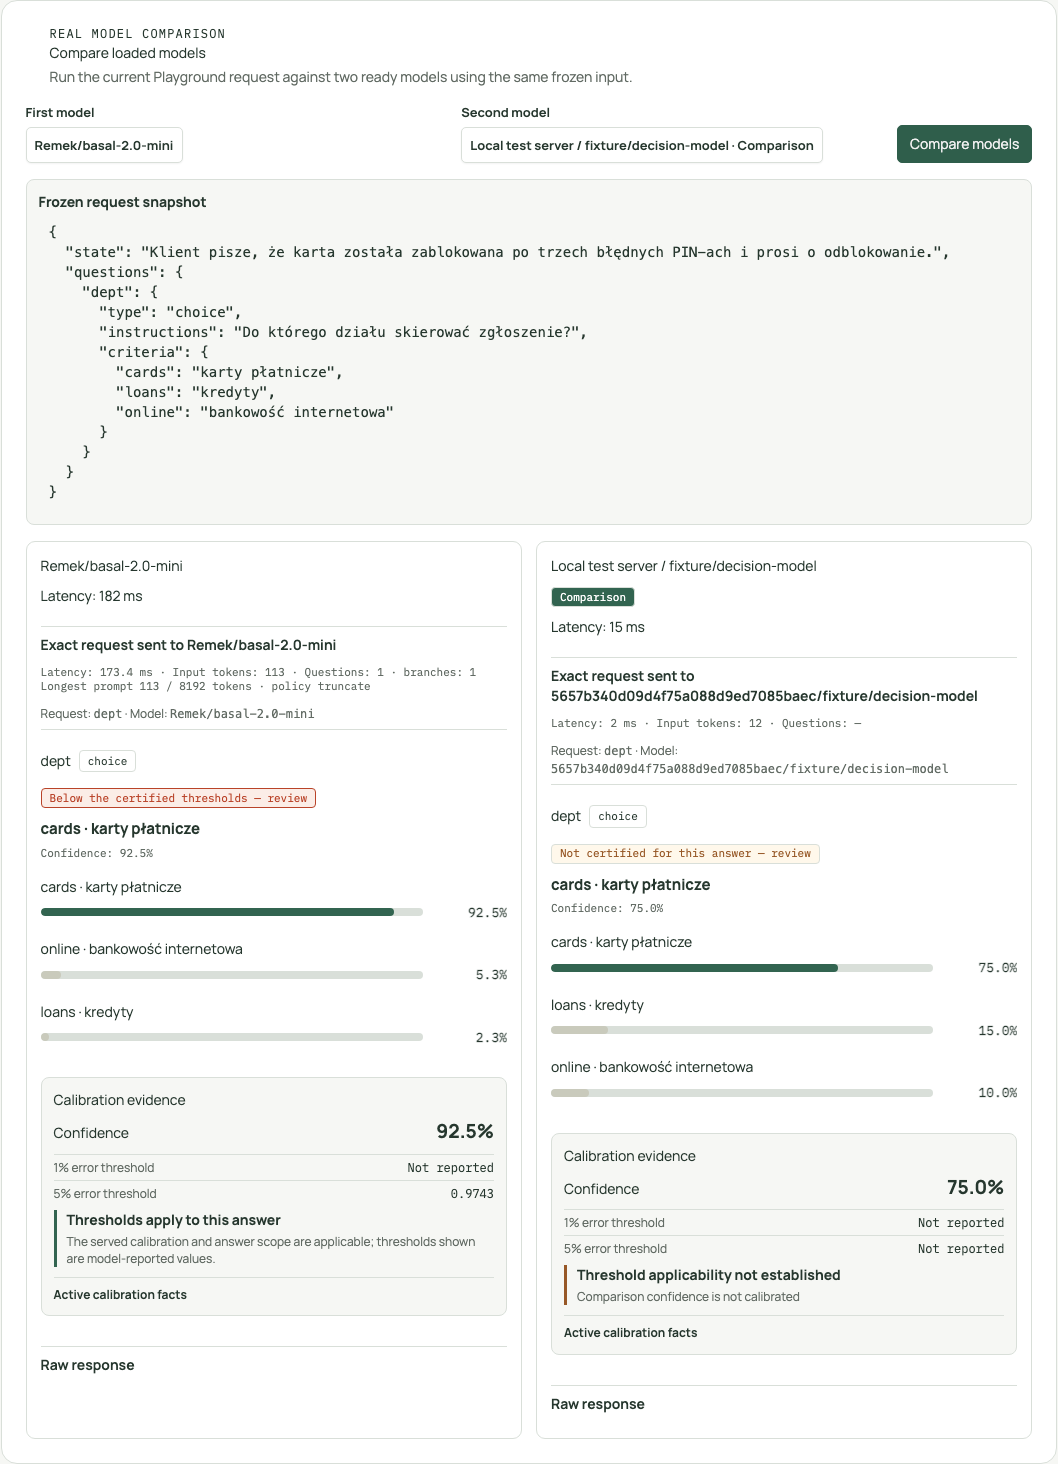
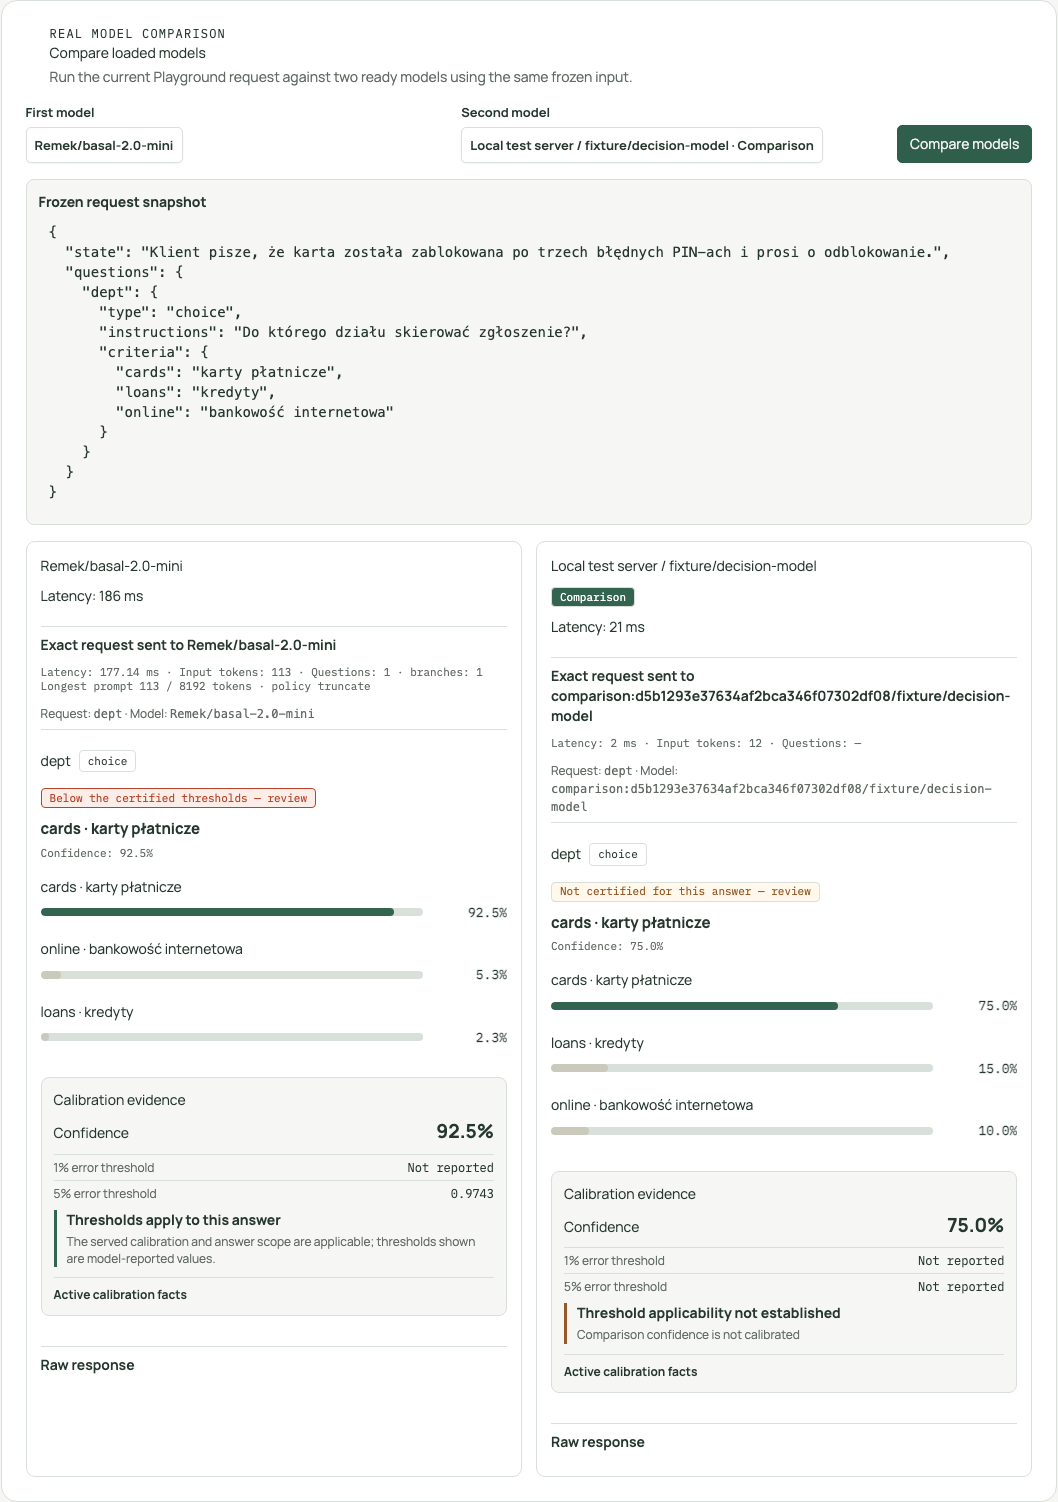
fix: retain comparison identity in usage
Keep Comparison models distinguishable after detach and retain fast Batch results. Refuse full-request gold labels that the Engine would not grade.

diff --git a/basal_ui/static/app.js b/basal_ui/static/app.js
@@ -1482,7 +1482,7 @@ async function loadStats() {
 }
 function renderStats() {
   const entries=Object.entries(statsData.models||{});
-  $('#statsTable').innerHTML=`<div class="section-head"><h3>${t('Statistics')}</h3>${entries.length?`<button type="button" id="resetAllStats" class="destructive">${t('Reset all')}</button>`:''}</div>${entries.length?`<div class="table-wrap"><table><thead><tr><th>${t('Model')}</th><th>${t('Requests')}</th><th>${t('Questions')}</th><th>${t('Avg best-answer prob.')}</th><th>${t('Avg / p95 latency')}</th><th>${t('Input tokens')}</th><th>${t('Last used')}</th><th></th></tr></thead><tbody>${entries.map(([id,x])=>`<tr><td title="${esc(id)}">${esc(shortName(id))}${modelEntry(id)?.kind==='comparison'?comparisonBadge():''}</td><td>${x.requests}${x.errors?` <span class="reason">${tp(x.errors,'{n} errors','{n} errors')}</span>`:''}</td><td>${x.questions}</td><td>${pct(x.avg_best_prob)}</td><td>${num(x.avg_latency_ms,0)} / ${num(x.p95_ms,0)} ms</td><td>${x.input_tokens}</td><td>${x.last_used?esc(new Date(x.last_used*1000).toLocaleString()):'—'}</td><td><button type="button" data-reset="${esc(id)}">${t('Reset')}</button></td></tr><tr class="stats-types"><td colspan="8">${Object.entries(x.by_type||{}).map(([type,v])=>`<span class="chip">${esc(type)} · ${v.questions} · ${pct(v.avg_best_prob)}</span>`).join(' ')||`<span class="muted">${t('no answers yet')}</span>`}</td></tr>`).join('')}</tbody></table></div>`:`<div class="empty">${t('No decisions yet: statistics appear after the first playground, API or MCP decision.')}</div>`}`;
+  $('#statsTable').innerHTML=`<div class="section-head"><h3>${t('Statistics')}</h3>${entries.length?`<button type="button" id="resetAllStats" class="destructive">${t('Reset all')}</button>`:''}</div>${entries.length?`<div class="table-wrap"><table><thead><tr><th>${t('Model')}</th><th>${t('Requests')}</th><th>${t('Questions')}</th><th>${t('Avg best-answer prob.')}</th><th>${t('Avg / p95 latency')}</th><th>${t('Input tokens')}</th><th>${t('Last used')}</th><th></th></tr></thead><tbody>${entries.map(([id,x])=>`<tr><td title="${esc(id)}">${esc(shortName(id))}${id.startsWith('comparison:')?comparisonBadge():''}</td><td>${x.requests}${x.errors?` <span class="reason">${tp(x.errors,'{n} errors','{n} errors')}</span>`:''}</td><td>${x.questions}</td><td>${pct(x.avg_best_prob)}</td><td>${num(x.avg_latency_ms,0)} / ${num(x.p95_ms,0)} ms</td><td>${x.input_tokens}</td><td>${x.last_used?esc(new Date(x.last_used*1000).toLocaleString()):'—'}</td><td><button type="button" data-reset="${esc(id)}">${t('Reset')}</button></td></tr><tr class="stats-types"><td colspan="8">${Object.entries(x.by_type||{}).map(([type,v])=>`<span class="chip">${esc(type)} · ${v.questions} · ${pct(v.avg_best_prob)}</span>`).join(' ')||`<span class="muted">${t('no answers yet')}</span>`}</td></tr>`).join('')}</tbody></table></div>`:`<div class="empty">${t('No decisions yet: statistics appear after the first playground, API or MCP decision.')}</div>`}`;
   $('#statsTable').querySelectorAll('[data-reset]').forEach(b=>b.onclick=()=>act(async()=>{if(await confirmDialog({title:t('Reset statistics?'),description:t('The counters of {model} start from zero.',{model:b.dataset.reset}),confirmLabel:t('Reset'),destructive:true})){await api(`/api/stats/${encodeURIComponent(b.dataset.reset)}`,{method:'DELETE'});toast(t('Statistics reset'));await loadStats();}}));
   const all=$('#resetAllStats'); if(all)all.onclick=()=>act(async()=>{if(await confirmDialog({title:t('Reset all statistics?'),description:t('The counters of every model start from zero. Benchmark results stay.'),confirmLabel:t('Reset all'),destructive:true})){await api('/api/stats',{method:'DELETE'});toast(t('Statistics reset'));await loadStats();}});
 }
@@ -2020,9 +2020,10 @@ function renderBatchState(job, ready) {
 const batchAccuracy=new Map();
 function showBatchResult(r) {
   batchResult=r;
-  if(r.accuracy!=null)batchAccuracy.set(`${r.input}\n${r.model}`,{input:r.input,model:r.model,accuracy:r.accuracy});
-  $('#batchAccuracy').innerHTML=[...batchAccuracy.values()].map(x=>`<div>${esc(x.model)} · ${esc(x.input)} · ${t('accuracy')} ${pct(x.accuracy)}</div>`).join('');
-  $('#batchSummary').innerHTML=`<div class="chips"><span class="chip">${esc(r.model)}</span><span class="chip">${tp(r.items,'{n} items','{n} items')}</span><span class="chip">${tp(r.errors,'{n} errors','{n} errors')}</span><span class="chip">${esc(r.seconds)} s</span><span class="chip">${esc(r.items_per_s)} ${t('items/s')}</span><span class="chip">${t('server p50')} ${esc(r.server_latency_p50_ms??'—')} ms</span>${r.accuracy!=null?`<span class="chip">${t('accuracy')} ${pct(r.accuracy)}</span>`:''}</div><p class="muted mono">${esc(r.output)}</p>`;
+  const model=(statusCache?.models||[]).find(m=>m.id===r.model), label=model?modelLabel(model):r.model, comparison=r.model.startsWith('comparison:');
+  if(r.accuracy!=null)batchAccuracy.set(`${r.input}\n${r.model}`,{input:r.input,label,comparison,accuracy:r.accuracy});
+  $('#batchAccuracy').innerHTML=[...batchAccuracy.values()].map(x=>`<div>${esc(x.label)} ${x.comparison?comparisonBadge():''} · ${esc(x.input)} · ${t('accuracy')} ${pct(x.accuracy)}</div>`).join('');
+  $('#batchSummary').innerHTML=`<div class="chips"><span class="chip">${esc(label)}</span>${comparison?comparisonBadge():''}<span class="chip">${tp(r.items,'{n} items','{n} items')}</span><span class="chip">${tp(r.errors,'{n} errors','{n} errors')}</span><span class="chip">${esc(r.seconds)} s</span><span class="chip">${esc(r.items_per_s)} ${t('items/s')}</span><span class="chip">${t('server p50')} ${esc(r.server_latency_p50_ms??'—')} ms</span>${r.accuracy!=null?`<span class="chip">${t('accuracy')} ${pct(r.accuracy)}</span>`:''}</div><p class="muted mono">${esc(r.output)}</p>`;
   $('#downloadBatch').hidden=$('#copyBatchPath').hidden=false;
   batchRowsLoaded=0; $('#batchRows').innerHTML=''; loadBatchRows();
 }
@@ -2039,6 +2040,7 @@ $('#runBatch').onclick=()=>act(async()=>{
   if($('#batchOutput').value.trim())body.output=$('#batchOutput').value.trim();
   if(!$('#batchEarlyExit').hidden&&$('#batchEarlyExit').value)body.early_exit=$('#batchEarlyExit').value;
   await api('/api/batch',{method:'POST',body:JSON.stringify(body)});
+  batchRunning=true;
   $('#batchSummary').innerHTML=''; $('#batchRows').innerHTML=''; $('#batchMore').hidden=$('#downloadBatch').hidden=$('#copyBatchPath').hidden=true;
   toast(t('Batch started')); await refreshStatus();
 });

diff --git a/basal_ui/static/i18n.js b/basal_ui/static/i18n.js
@@ -4,6 +4,7 @@
 // aria-label attributes that equal a key). Unknown strings stay English, as do messages that come from the server.
 const LANG = localStorage.getItem('basal-ui.lang') === 'pl' ? 'pl' : 'en';
 const PL = {
+  "basal-run does not grade gold on full requests; use simple items": "basal-run nie ocenia pól gold w pełnych żądaniach; użyj prostych rekordów",
   "name must be a non-empty string": "Nazwa nie może być pusta",
   "url must be an http(s) URL": "Adres musi być adresem HTTP lub HTTPS",
   "url must be an http(s) URL without credentials, query or fragment": "Adres HTTP lub HTTPS nie może zawierać danych uwierzytelniających, zapytania ani fragmentu",

diff --git a/tests/test_ui_comparison.py b/tests/test_ui_comparison.py
@@ -86,6 +86,7 @@ def test_attach_decide_accounting_gateway_and_detach(app_client, child, tmp_path
     client, fleet = app_client
     server, model = attach(client, child)
     model_id = model["id"]
+    assert model_id.startswith("comparison:")
     assert model["entry"]["kind"] == "comparison" and model["reported_memory_bytes"] == 12345
     assert model["est_memory_bytes"] == 0
     assert "secret-for-test" not in client.get("/api/status").text + client.get("/api/decision-servers").text
@@ -114,6 +115,7 @@ def test_attach_decide_accounting_gateway_and_detach(app_client, child, tmp_path
     assert client.delete(f"/api/decision-servers/{server['id']}").status_code == 200
     assert settings.decision_servers() == [] and settings.decision_secret(server["id"]) is None
     assert model_id not in fleet.runners
+    assert fleet.stats.snapshot()["models"][model_id]["requests"] == 1
 
 
 def test_consent_and_refusals_precede_upstream(app_client, child):
@@ -152,6 +154,9 @@ def test_batch_real_subprocess_preflight_and_accounting(app_client, child, tmp_p
     refused = client.post("/api/batch", json={"id": model_id, "input": str(source)})
     assert refused.status_code == 400 and "line 3" in refused.text and "facts" in refused.text
     assert child.seen == []
+    source.write_text(json.dumps({**BODY, "gold": 0}) + "\n")
+    refused = client.post("/api/batch", json={"id": model_id, "input": str(source)})
+    assert refused.status_code == 400 and "does not grade gold" in refused.text and child.seen == []
     source.write_text(json.dumps(item) + "\n" + json.dumps({**item, "gold": 1}) + "\n")
     assert client.post("/api/batch", json={"id": model_id, "input": str(source)}).status_code == 202
     job = wait_for(

diff --git a/basal_ui/fleet.py b/basal_ui/fleet.py
@@ -482,7 +482,7 @@ class ComparisonRunner:
     def __init__(self, server, entry, key):
         self.server, self.key = server, key
         self.model_name = entry.get("id") or entry.get("name")
-        self.model = self.id = f"{server['id']}/{self.model_name}"
+        self.model = self.id = f"comparison:{server['id']}/{self.model_name}"
         self.state, self.error, self.process = "ready", None, None
         self.base_url = server["base_url"]
         self.model_repo = None
@@ -685,12 +685,12 @@ class Fleet:
                     for name, runner in self.runners.items()
                     if isinstance(runner, ComparisonRunner) and runner.server is server
                 }
-                wanted = {f"{server_id}/{entry.get('id') or entry.get('name')}" for entry in entries}
+                wanted = {f"comparison:{server_id}/{entry.get('id') or entry.get('name')}" for entry in entries}
                 if valid:
                     for name in old - wanted:
                         self.runners.pop(name)
                     for entry in entries:
-                        name = f"{server_id}/{entry.get('id') or entry.get('name')}"
+                        name = f"comparison:{server_id}/{entry.get('id') or entry.get('name')}"
                         runner = self.runners.get(name)
                         if runner is None:
                             self.runners[name] = ComparisonRunner(server, entry, key)

diff --git a/basal_ui/app.py b/basal_ui/app.py
@@ -1509,6 +1509,14 @@ def create_app(
 
             for n, line in lines:
                 item = json.loads(line)
+                if "questions" in item and "gold" in item:
+                    raise HTTPException(
+                        400,
+                        {
+                            "code": "UNSUPPORTED_FOR_COMPARISON",
+                            "detail": f"{source.name}: line {n}: basal-run does not grade gold on full requests; use simple items",
+                        },
+                    )
                 permitted = (
                     {"id", "state", "questions", "early_exit", "gold"}
                     if "questions" in item

diff --git a/docs/USAGE.md b/docs/USAGE.md
@@ -283,8 +283,11 @@ with their log and any report written before failure retained.
 **Batch** runs `basal-run` from the app: a loaded model, an input JSONL file (simple items or full `/v1/systemone`
 requests, [in the engine docs](https://github.com/rkinas/basal/blob/main/docs/SERVING.md#inference-on-a-jsonl-file)), the output file (default `<stem>.answers.jsonl` next to it, e.g. `items.jsonl` → `items.answers.jsonl`), the
 concurrency and, for a `--mode fast-exit` model, an early-exit level. The progress, the summary (items, errors,
-seconds, items per second, server p50, accuracy over the items with `gold`) and the answers page by page are shown;
+seconds, items per second, server p50, accuracy over simple items with `gold`) and the answers page by page are shown;
 **Download answers** saves the output file. Ordinary basal Batch requests go straight to the model's basal-serve and are not counted in statistics or History. Comparison Batch uses a private loopback proxy to supply the upstream model name and key, and each Comparison Decision is recorded in History, Usage and Dashboard traffic with its server name. Comparison Batch validates every non-empty JSONL line before starting, and identifies the actual line number for refusals. The Batch view keeps the latest accuracy by model and input for this browser session. One batch runs at a time; its log is **Logs → job:batch**.
+
+The Engine grades `gold` only on simple items. Comparison Batch refuses `gold` on full requests instead of silently
+ignoring the label; convert those rows to simple items when accuracy is needed.
 
 The **Path inspector** rail checks the paths on this computer when **Check paths** is pressed, without writing files
 or running inference. Input inspection reports the first non-empty row's JSON/basic request shape, a readable sample
